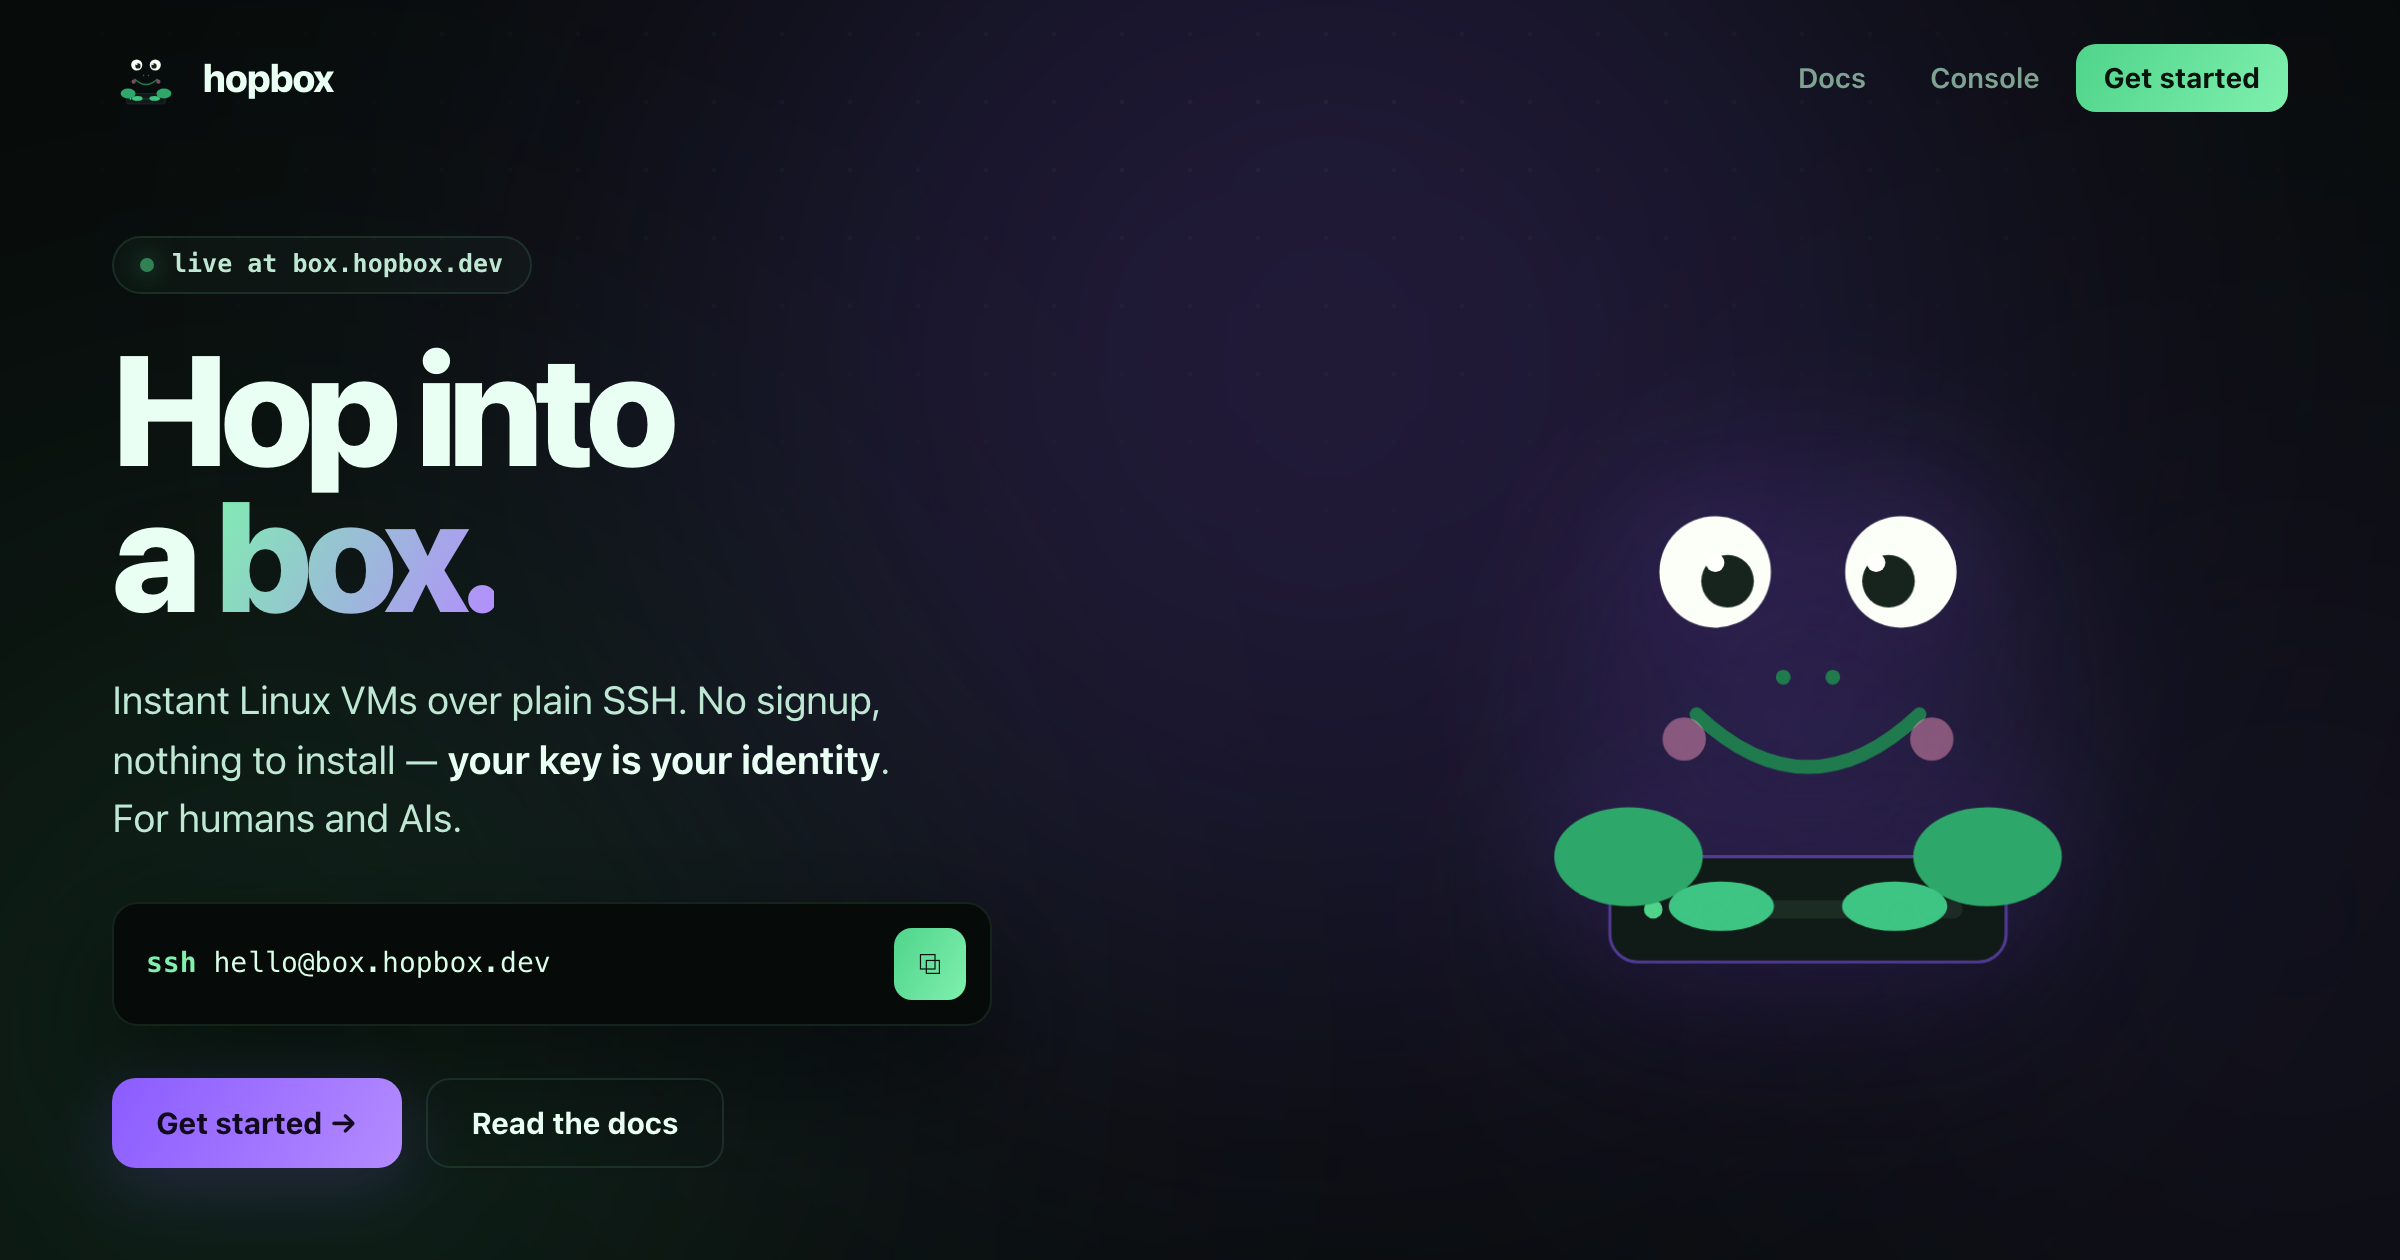
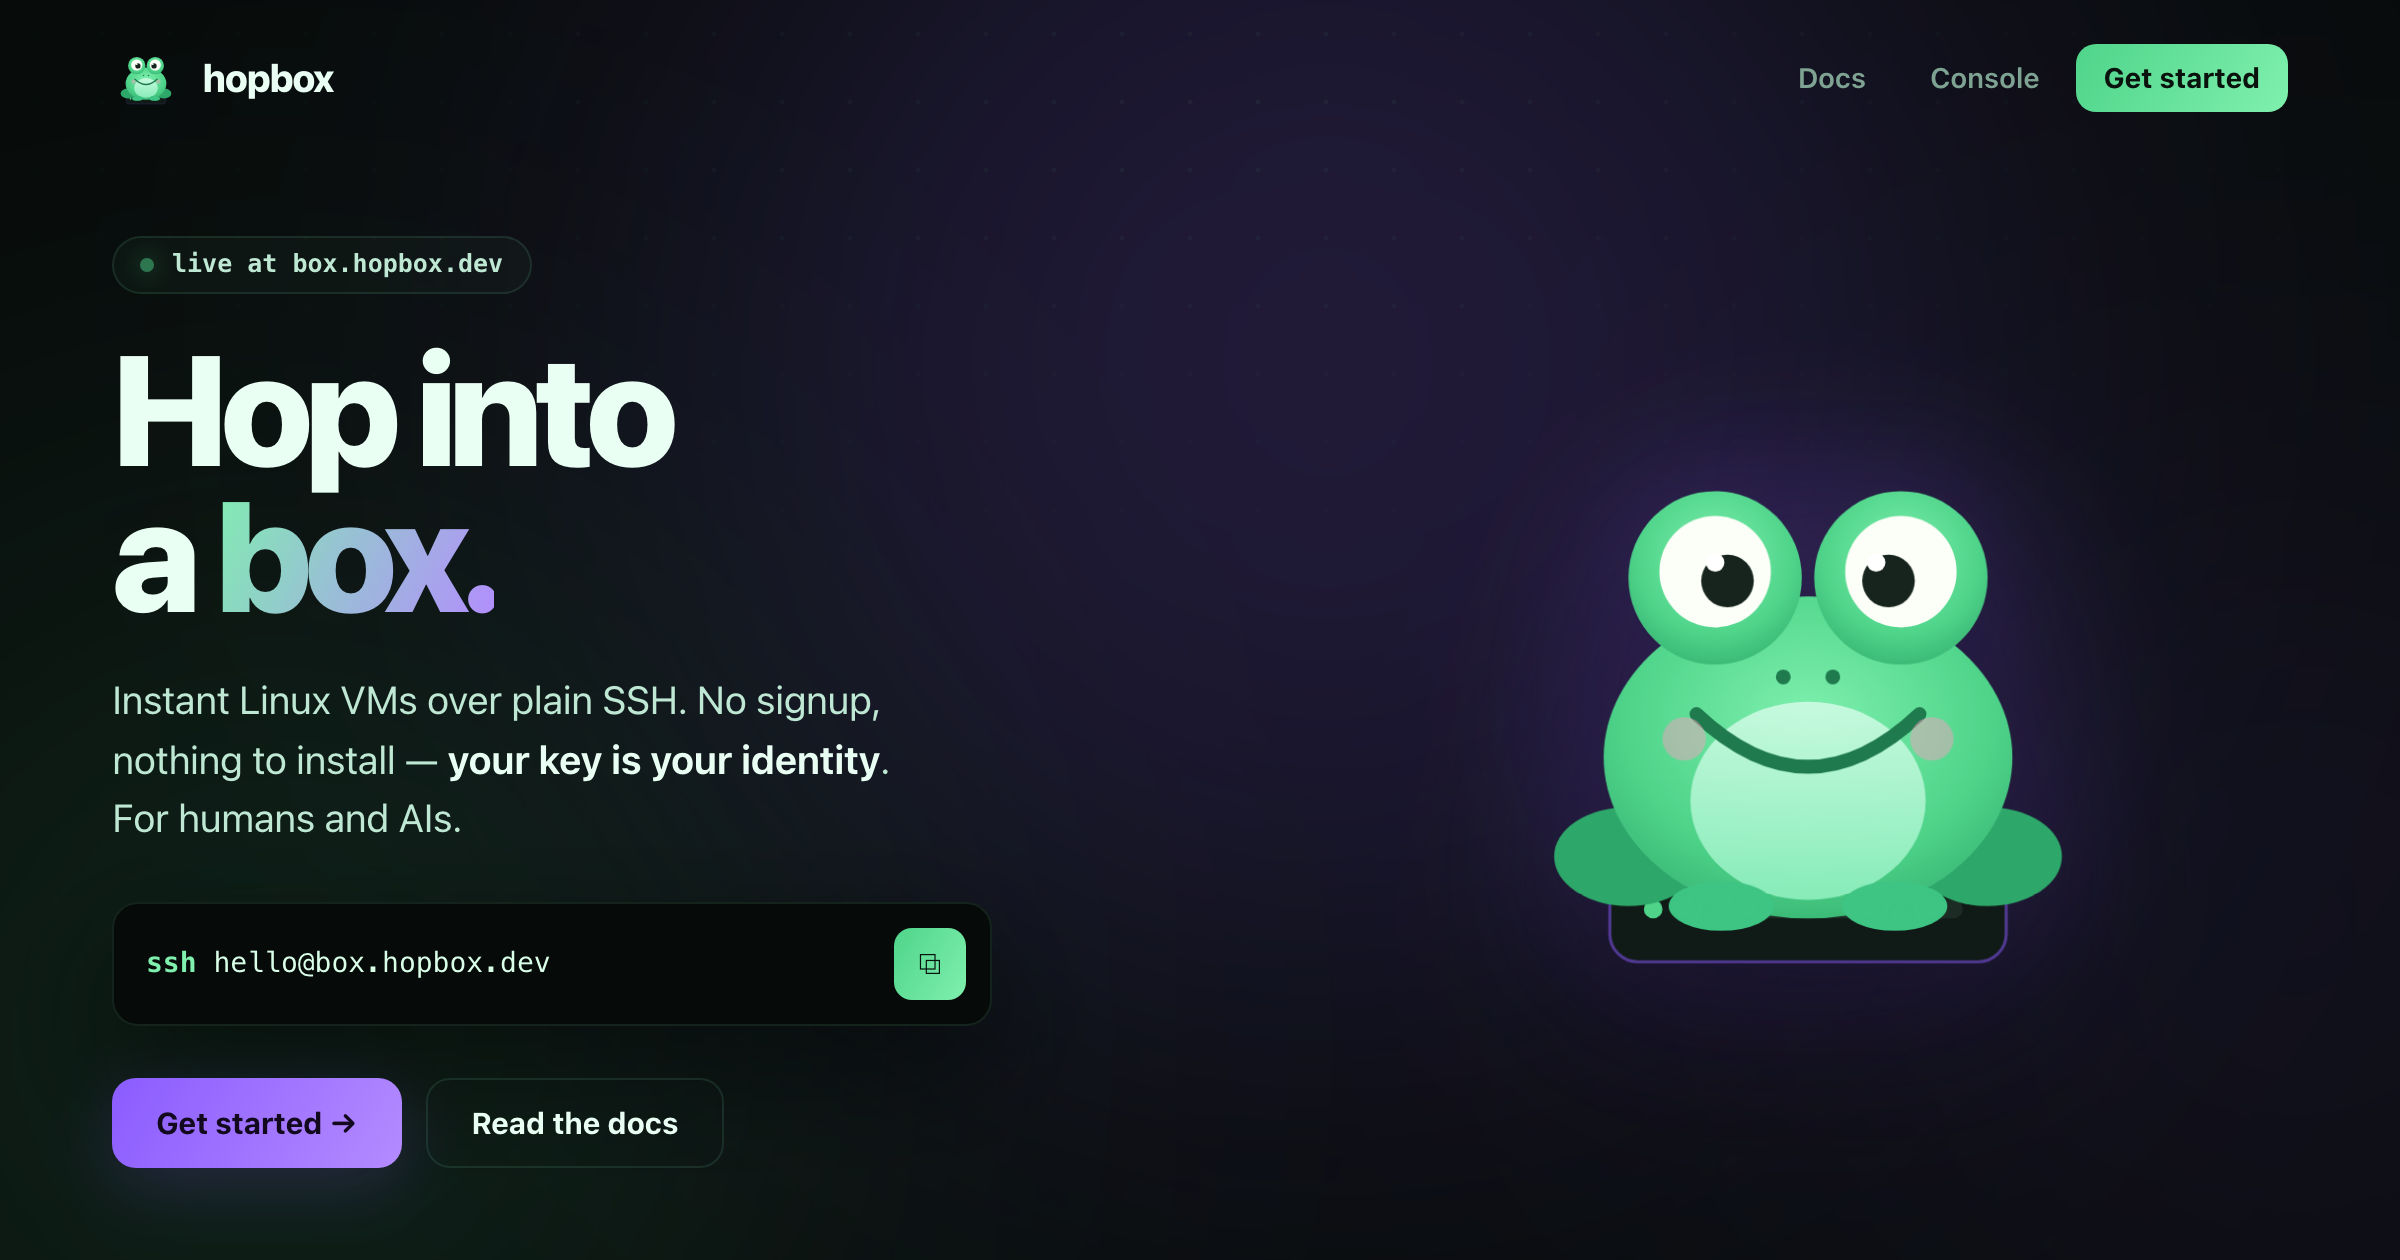
Fix the frog body: gradients don't paint from a display:none svg
The symbol carrier is now width:0/height:0 (visible), so the body/eye-bulge
radial gradients render. og.png re-rendered with the whole frog.

Claude-Session: https://claude.ai/code/session_01A18vB8zucP8EGCqoE8H6eV

Changed region(s): [[0.6562, 0.3714, 0.8438, 0.7429], [0.0312, 0.031, 0.0625, 0.0929]]

diff --git a/index.html b/index.html
@@ -169,7 +169,7 @@
 <div class="bg"><div class="glow g1"></div><div class="glow g2"></div><div class="glow g3"></div><div class="ripple"></div></div>
 
 <!-- the frog mascot, reused -->
-<svg style="display:none"><symbol id="frog" viewBox="0 0 220 200">
+<svg width="0" height="0" style="position:absolute" aria-hidden="true" focusable="false"><symbol id="frog" viewBox="0 0 220 200">
   <defs>
     <radialGradient id="body" cx="50%" cy="38%" r="75%">
       <stop offset="0%" stop-color="#7ff0ae"/><stop offset="60%" stop-color="#4fd48a"/><stop offset="100%" stop-color="#2ea86a"/>
